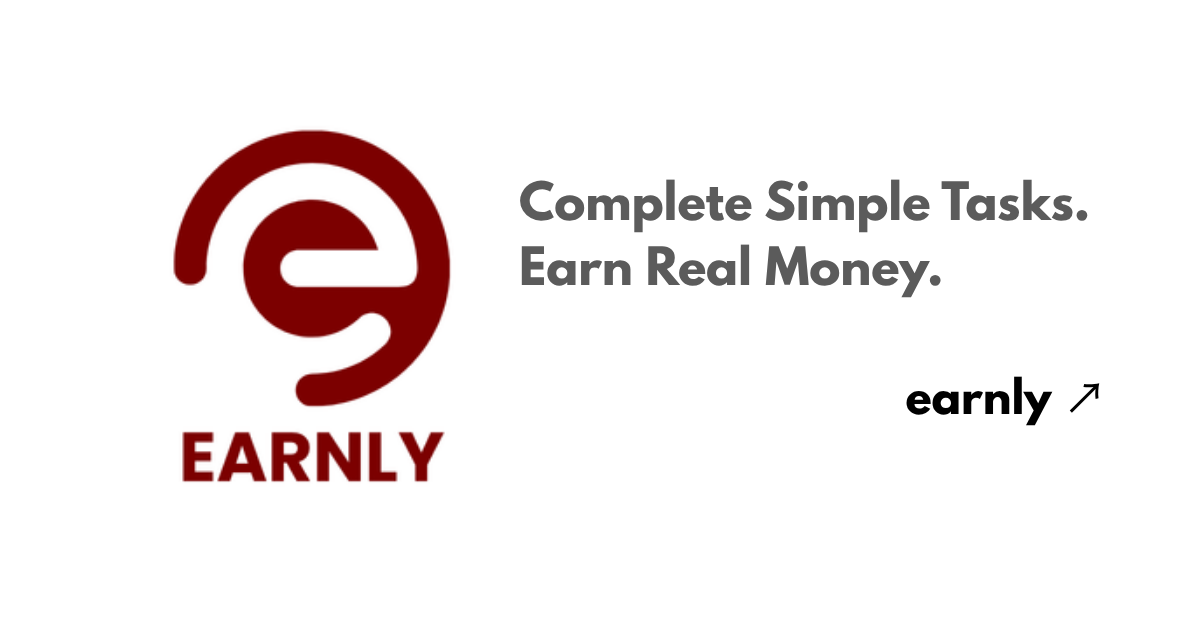
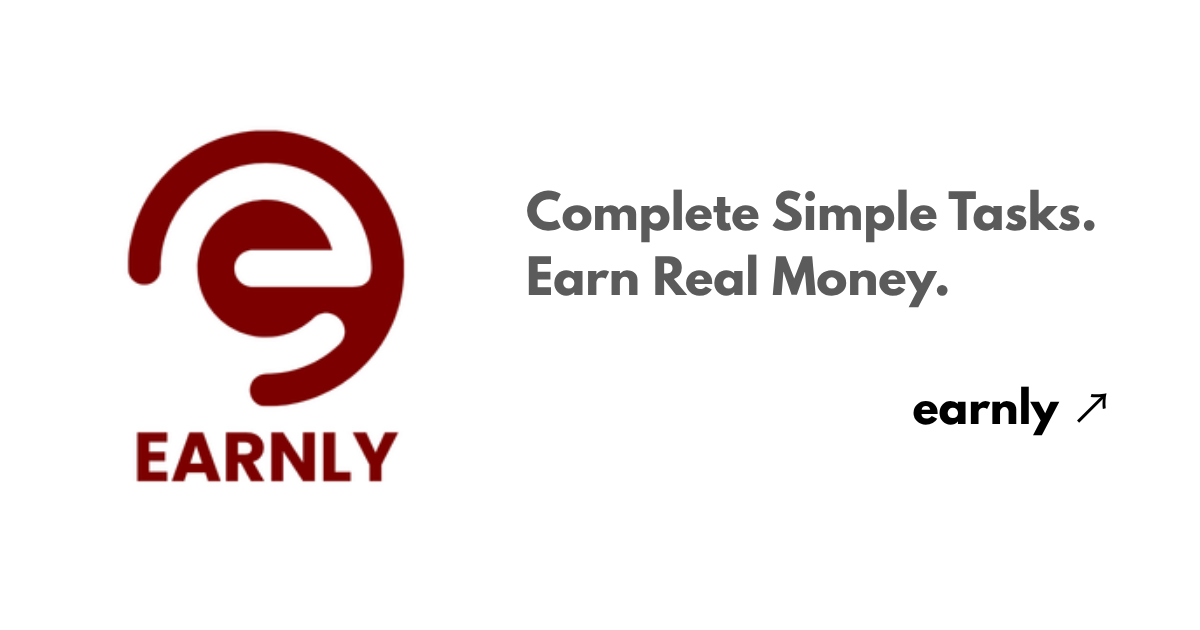
updated v3 og image version

Changed region(s): [[0.0925, 0.181, 0.4008, 0.7841], [0.4317, 0.2714, 0.925, 0.4825], [0.74, 0.6032, 0.925, 0.6937]]

diff --git a/src/app/layout.tsx b/src/app/layout.tsx
@@ -11,7 +11,7 @@ import "./globals.css";
    The `?v=` is a cache key, not a parameter the server reads. Scrapers and CDNs
    cache OG images by URL for weeks, so replacing the file in place ships a new
    picture that nobody re-fetches. Bump this whenever the artwork changes. */
-const OG_IMAGE = "/images/opengraph-image.png?v=2";
+const OG_IMAGE = "/images/opengraph-image.png?v=3";
 
 /**
  * Fallbacks for the two licensed faces, which are declared in globals.css.
